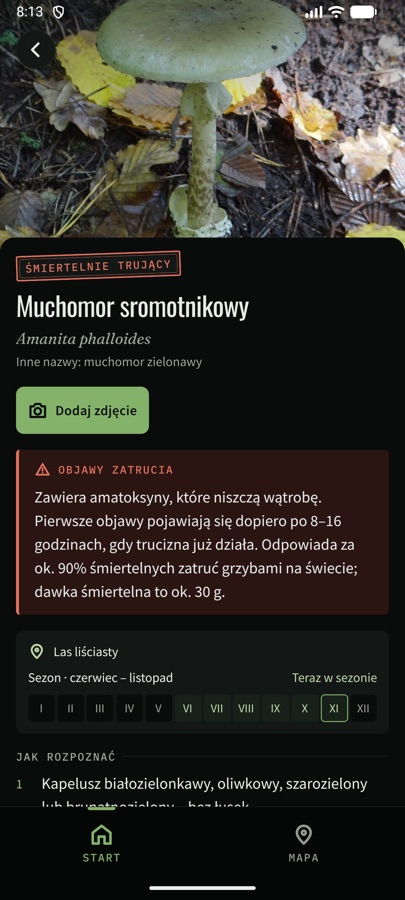
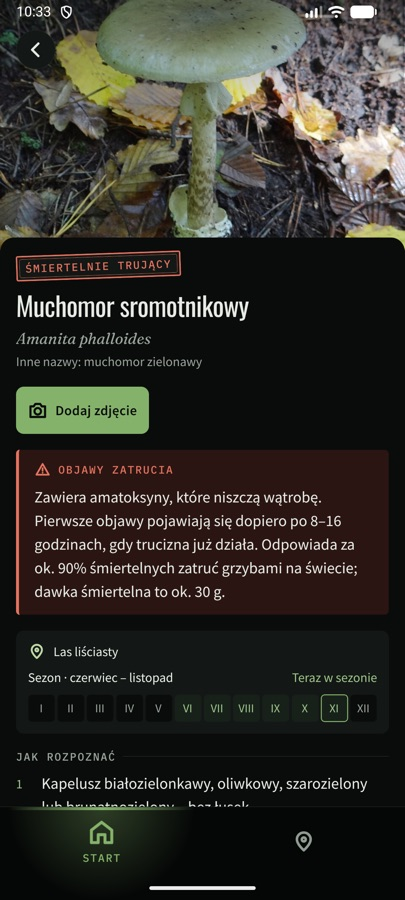
docs: final README – tested on a phone via Expo Go, author, fresh screenshots

diff --git a/CLAUDE.md b/CLAUDE.md
@@ -23,7 +23,7 @@ Treść zadania jest najważniejszym punktem odniesienia przy każdej decyzji.
 
 - Przy każdym zadaniu dotyczącym UI/UX korzystaj ze skilla `design-mobile-apps` wskazanego przez autora: https://github.com/designed-by-ai/skills (folder `skills/design-mobile-apps`). Przeczytaj jego `SKILL.md` przed projektowaniem.
 - Instalacja wskazana przez autora: `npx skills add https://github.com/designed-by-ai/skills --skill design-mobile-apps`.
-- Stan na 2026-11-15: potwierdzono lokalną instalację i przeczytano `/Users/kacper/.agents/skills/design-mobile-apps/SKILL.md`. W tym samym katalogu są `designing.md`, `implementing.md`, `endpoints.md` i `styling/`. Czytaj te pliki zgodnie z zadaniem. Skill wymaga połączenia z usługą Sleek; w sesji sprawdzającej `SLEEK_API_KEY` nie był skonfigurowany. Sprawdź aktualny stan autoryzacji przed użyciem API; nie utożsamiaj instalacji skilla z połączeniem konta.
+- Stan na 2026-11-15: potwierdzono lokalną instalację i przeczytano `~/.agents/skills/design-mobile-apps/SKILL.md`. W tym samym katalogu są `designing.md`, `implementing.md`, `endpoints.md` i `styling/`. Czytaj te pliki zgodnie z zadaniem. Skill wymaga połączenia z usługą Sleek; w sesji sprawdzającej `SLEEK_API_KEY` nie był skonfigurowany. Sprawdź aktualny stan autoryzacji przed użyciem API; nie utożsamiaj instalacji skilla z połączeniem konta.
 - Autor zdecydował 2026-11-15, że nie podłącza konta Sleek. Stosuj lokalne wskazówki projektowania i wdrażania tego skilla bez API Sleek; nie ponawiaj autoryzacji. Nie zapisuj kluczy API w repozytorium.
 - Kierunek UI i przegląd względem skilla: `docs/ui-direction.md`. Dwie zakładki: Start i Mapa. Start zawiera stos Atlasu, Nauki, kolekcji, szczegółów i ustawień, z widocznym dolnym paskiem. Przejście na Mapę zwija stos Startu (`popToTopOnBlur`), więc powrót na Start pokazuje stronę Startu, a nie np. Naukę.
 
@@ -141,7 +141,7 @@ Otwarte sprawy:
 - Reset profilu w `OnboardingProvider` nadal używa `Alert` (tylko w trybie deweloperskim).
 - Panel źródeł jest dostępny w Atlasie. Metadane zdjęć są kompletne; testy danych nie stanowią merytorycznej weryfikacji całego atlasu.
 - Haptyka nie jest potwierdzona na fizycznym telefonie, a emulator jej nie odda.
-- README przepisane 2026-11-21 ze zrzutami (`docs/screenshots`); wpis o fizycznym urządzeniu ma `TODO` – potwierdza autor.
+- README ze zrzutami (`docs/screenshots`); autor potwierdził test na fizycznym telefonie przez Expo Go (2026-11-22). Repo: https://github.com/perarz/Grzybs (push tylko na polecenie autora).
 - 2026-11-19 autor podał, że ma 3 dni do oddania. Priorytet: stabilność, dopracowanie istniejących funkcji i natywna weryfikacja.
 - `npm test`: 132 testy (2026-11-22; nowe także w `streak-forecast.test.cjs` i test losowej kolejności pytań w `course-content.test.cjs`; nowe w `find-details.test.cjs`, `streak-calendar.test.cjs`, `daily-fact.test.cjs` i `ranks.test.cjs`) – kolekcja, pytania, ścieżka nauki, migracje/statystyki, miejsca, geometria, światło dzienne, GPS, pogoda, trasy i start w Expo Go. Testy statystyk używają prawdziwego SQLite w pamięci przez `node:sqlite` (Node 22.13+; na tej maszynie Node 26). Testy kolekcji nadal używają atrap modułów natywnych.
 

diff --git a/README.md b/README.md
@@ -2,7 +2,7 @@
 
 Kieszonkowy przewodnik grzybiarza: atlas 26 polskich gatunków z ostrzeżeniami przed trującymi sobowtórami, nauka rozpoznawania krok po kroku, własny rejestr znalezisk ze zdjęciami oraz mapa z miejscówkami, pogodą i powrotem do auta. Wszystko poza kafelkami mapy i prognozą pogody działa offline – w lesie zasięg bywa słaby.
 
-> Zadanie rekrutacyjne Software Mansion. React Native + Expo (SDK 58), TypeScript.
+> Zadanie rekrutacyjne Software Mansion. React Native + Expo (SDK 58), TypeScript. Autor: [perarz](https://github.com/perarz).
 
 <p>
   <img src="docs/screenshots/01-start.jpg" width="200" alt="Ekran Start" />
@@ -16,12 +16,15 @@ Kieszonkowy przewodnik grzybiarza: atlas 26 polskich gatunków z ostrzeżeniami 
   <img src="docs/screenshots/07-quiz.jpg" width="200" alt="Pytanie w lekcji" />
   <img src="docs/screenshots/08-map.jpg" width="200" alt="Mapa z pogodą i indeksem grzybowym" />
 </p>
+<p>
+  <img src="docs/screenshots/09-daily.jpg" width="200" alt="Okno grzyba dnia" />
+</p>
 
 ## Platforma i testy
 
 - **Przygotowana głównie pod:** Android.
-- **Testowana na fizycznym urządzeniu:** TODO – do uzupełnienia przez autora przed oddaniem.
-- **Emulator:** Android Studio, Medium Phone (API 37), Expo Go 58.0.5 – wszystkie ekrany przeklikane 2026-11-21, w tym zdjęcie z aparatu, zapis znaleziska, mapa i lekcje; zmiany z 2026-11-22 (Start, ścieżka nauki, panel miejsc, szczegóły znaleziska, wygląd „Nocny las”) sprawdzone na emulatorze tego dnia; zrzuty poniżej pochodzą z tego dnia.
+- **Testowana na fizycznym urządzeniu:** tak – telefon z Androidem, przez Expo Go.
+- **Emulator:** Android Studio, Medium Phone (API 37), Expo Go 58.0.5 – wszystkie ekrany przeklikane 2026-11-21, w tym zdjęcie z aparatu, zapis znaleziska, mapa i lekcje; zmiany z 2026-11-22 sprawdzone na emulatorze; zrzuty poniżej pochodzą z 2026-11-22.
 - **iOS:** nie był testowany.
 
 ## Uruchomienie
